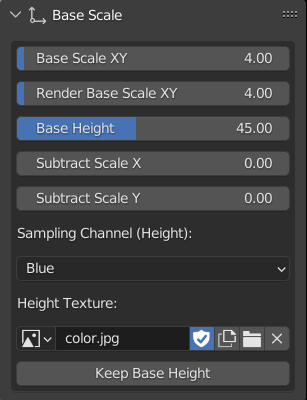
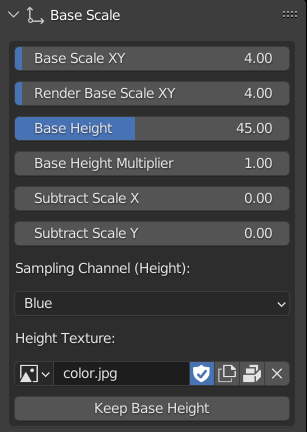
Update: base scale settings

diff --git a/docs/_build/html/searchindex.js b/docs/_build/html/searchindex.js
@@ -1,1 +1,1 @@
-Search.setIndex({"docnames": ["changelog", "contact", "contents", "custom_materials", "index", "quickstart", "settings"], "filenames": ["changelog.rst", "contact.rst", "contents.rst", "custom_materials.rst", "index.rst", "quickstart.rst", "settings.rst"], "titles": ["Changelog", "Contact", "&lt;no title&gt;", "Custom Materials", "What is 3DPixels?", "Quickstart", "Settings"], "terms": {"novemb": 0, "04": 0, "2022": 0, "initi": 0, "releas": 0, "need": [1, 5], "one": [1, 3], "creator": 1, "you": [1, 5], "ve": 1, "come": 1, "right": 1, "place": [1, 6], "s": [1, 3, 5], "linktre": 1, "quickstart": [2, 4], "set": [0, 2, 3, 4, 5], "changelog": [2, 4], "contact": [2, 4], "gumroad": 4, "blendermarket": 4, "load": 4, "creat": 5, "copi": [3, 5], "project": [3, 5], "file": 5, "open": 5, "blender": 5, "should": 5, "see": 5, "someth": 5, "like": 5, "thi": 5, "make": 5, "sure": 5, "text": 5, "editor": 5, "project_panel": 5, "py": 5, "script": 5, "select": 5, "1": 5, "run": 5, "2": 5, "onli": 5, "close": 5, "press": 5, "n": 5, "kei": 5, "sidebar": 5, "visibl": 5, "alreadi": 5, "switch": 5, "projectset": 5, "tab": 5, "3": 5, "cycl": 5, "render": 5, "turn": 5, "shade": 5, "view": 5, "chang": [5, 6], "height": [0, 5], "color": 5, "textur": [5, 6], "quick": 5, "other": [5, 6], "tast": 5, "awai": 5, "some": 6, "might": 6, "work": 6, "each": 6, "type": 6, "textbox": 6, "get": 6, "heavi": 6, "between": 6, "can": [0, 6], "seen": 6, "us": 6, "spars": 6, "thing": 6, "modifi": 6, "which": 6, "ar": 6, "top": 6, "option": 6, "differ": 6, "env": 6, "light": 6, "background": 6, "imag": 6, "offset": 6, "z": 6, "axi": 6, "an": [3, 6], "look": 6, "layer": 6, "mesh": 6, "cut": 6, "whole": 6, "when": [], "your": 3, "includ": 3, "driver": 3, "requir": 3, "care": 3, "e": 3, "g": 3, "base": 3, "instanc": 3, "extra": 3, "exist": 3, "build": 3, "upon": 3, "check": [], "out": [], "how": [], "control": [], "part": [], "For": 3, "show": 3, "up": 3, "panel": [0, 3], "more": 3, "end": 3, "name": 3, "_bi": 3, "_ei": 3, "_eg": 3, "glass": 3, "_ep": 3, "plane": 3, "_fr": 3, "frame": 3, "_fl": 3, "floor": 3, "custom": [2, 4], "materi": [2, 4], "The": 3, "anatomi": 3, "scene": 3, "To": 3, "node": 3, "decemb": 0, "05": 0, "fix": 0, "anim": 0, "max": 0, "detail": 0, "isn": 0, "t": 0, "enough": 0, "add": 0, "multipli": 0, "document": 0, "link": 0}, "objects": {}, "objtypes": {}, "objnames": {}, "titleterms": {"changelog": 0, "1": 0, "0": 0, "contact": 1, "david": 1, "elek": 1, "mark": 1, "content": [2, 4], "what": 4, "3dpixel": 4, "quickstart": 5, "set": 6, "The": 6, "anatomi": 6, "scene": 6, "viewport": 6, "optim": 6, "quick": 6, "grid": 6, "instanc": 6, "object": 6, "base": 6, "scale": 6, "rotat": 6, "shade": 6, "environ": 6, "extra": 6, "locat": 6, "glass": 6, "plane": 6, "boolean": 6, "frame": 6, "floor": 6, "custom": 3, "materi": 3, "keyword": 3, "when": [], "creat": [], "your": [], "make": 3, "sure": 3, "visibl": 3, "filter": 3}, "envversion": {"sphinx.domains.c": 2, "sphinx.domains.changeset": 1, "sphinx.domains.citation": 1, "sphinx.domains.cpp": 6, "sphinx.domains.index": 1, "sphinx.domains.javascript": 2, "sphinx.domains.math": 2, "sphinx.domains.python": 3, "sphinx.domains.rst": 2, "sphinx.domains.std": 2, "sphinx.ext.todo": 2, "sphinx": 56}})
+Search.setIndex({"docnames": ["changelog", "contact", "contents", "custom_materials", "index", "quickstart", "settings"], "filenames": ["changelog.rst", "contact.rst", "contents.rst", "custom_materials.rst", "index.rst", "quickstart.rst", "settings.rst"], "titles": ["Changelog", "Contact", "&lt;no title&gt;", "Custom Materials", "What is 3DPixels?", "Quickstart", "Settings"], "terms": {"novemb": 0, "04": 0, "2022": 0, "initi": 0, "releas": 0, "need": [1, 5], "one": [1, 3], "creator": 1, "you": [1, 5], "ve": 1, "come": 1, "right": 1, "place": [1, 6], "s": [1, 3, 5], "linktre": 1, "quickstart": [2, 4], "set": [0, 2, 3, 4, 5], "changelog": [2, 4], "contact": [2, 4], "gumroad": 4, "blendermarket": 4, "load": 4, "creat": 5, "copi": [3, 5], "project": [3, 5], "file": 5, "open": 5, "blender": 5, "should": 5, "see": 5, "someth": 5, "like": 5, "thi": 5, "make": 5, "sure": 5, "text": 5, "editor": 5, "project_panel": 5, "py": 5, "script": 5, "select": 5, "1": 5, "run": 5, "2": 5, "onli": 5, "close": 5, "press": 5, "n": 5, "kei": 5, "sidebar": 5, "visibl": 5, "alreadi": 5, "switch": 5, "projectset": 5, "tab": 5, "3": 5, "cycl": 5, "render": 5, "turn": 5, "shade": 5, "view": 5, "chang": [5, 6], "height": [0, 5, 6], "color": 5, "textur": [5, 6], "quick": 5, "other": [5, 6], "tast": 5, "awai": 5, "some": 6, "might": 6, "work": 6, "each": 6, "type": 6, "textbox": 6, "get": 6, "heavi": 6, "between": 6, "can": [0, 6], "seen": 6, "us": 6, "spars": 6, "thing": 6, "modifi": 6, "which": 6, "ar": 6, "top": 6, "option": 6, "differ": 6, "env": 6, "light": 6, "background": 6, "imag": 6, "offset": 6, "z": 6, "axi": 6, "an": [3, 6], "look": 6, "layer": 6, "mesh": 6, "cut": 6, "whole": 6, "when": [], "your": 3, "includ": 3, "driver": 3, "requir": 3, "care": 3, "e": 3, "g": 3, "base": 3, "instanc": 3, "extra": 3, "exist": 3, "build": 3, "upon": 3, "check": [], "out": [], "how": [], "control": [], "part": [], "For": 3, "show": 3, "up": [3, 6], "panel": [0, 3], "more": 3, "end": 3, "name": 3, "_bi": 3, "_ei": 3, "_eg": 3, "glass": 3, "_ep": 3, "plane": 3, "_fr": 3, "frame": 3, "_fl": 3, "floor": 3, "custom": [2, 4], "materi": [2, 4], "The": 3, "anatomi": 3, "scene": 3, "To": 3, "node": 3, "decemb": 0, "05": 0, "fix": 0, "anim": 0, "max": 0, "detail": 0, "isn": 0, "t": 0, "enough": 0, "add": 0, "multipli": [0, 6], "document": 0, "link": 0, "If": [], "100x": [], "number": 6, "1000": 6}, "objects": {}, "objtypes": {}, "objnames": {}, "titleterms": {"changelog": 0, "1": 0, "0": 0, "contact": 1, "david": 1, "elek": 1, "mark": 1, "content": [2, 4], "what": 4, "3dpixel": 4, "quickstart": 5, "set": 6, "The": 6, "anatomi": 6, "scene": 6, "viewport": 6, "optim": 6, "quick": 6, "grid": 6, "instanc": 6, "object": 6, "base": 6, "scale": 6, "rotat": 6, "shade": 6, "environ": 6, "extra": 6, "locat": 6, "glass": 6, "plane": 6, "boolean": 6, "frame": 6, "floor": 6, "custom": 3, "materi": 3, "keyword": 3, "when": [], "creat": [], "your": [], "make": 3, "sure": 3, "visibl": 3, "filter": 3}, "envversion": {"sphinx.domains.c": 2, "sphinx.domains.changeset": 1, "sphinx.domains.citation": 1, "sphinx.domains.cpp": 6, "sphinx.domains.index": 1, "sphinx.domains.javascript": 2, "sphinx.domains.math": 2, "sphinx.domains.python": 3, "sphinx.domains.rst": 2, "sphinx.domains.std": 2, "sphinx.ext.todo": 2, "sphinx": 56}})

diff --git a/docs/_build/html/settings.html b/docs/_build/html/settings.html
@@ -146,6 +146,10 @@
 <h2>Base Scale<a class="headerlink" href="#base-scale" title="Permalink to this heading"></a></h2>
 <p>Change the scale of base instances</p>
 <img alt="base scale settings" src="_images/base_scale.png" />
+<div class="admonition note">
+<p class="admonition-title">Note</p>
+<p>Can type in a number up to 1000 for the “Base Height Multiplier”</p>
+</div>
 </section>
 <section id="base-rotation">
 <h2>Base Rotation<a class="headerlink" href="#base-rotation" title="Permalink to this heading"></a></h2>

diff --git a/docs/settings.rst b/docs/settings.rst
@@ -64,6 +64,8 @@ Change the scale of base instances
 .. image:: images/base_scale.png
     :alt: base scale settings
 
+.. note:: Can type in a number up to 1000 for the "Base Height Multiplier"
+
 Base Rotation
 --------------
 Change the rotation of base instances
